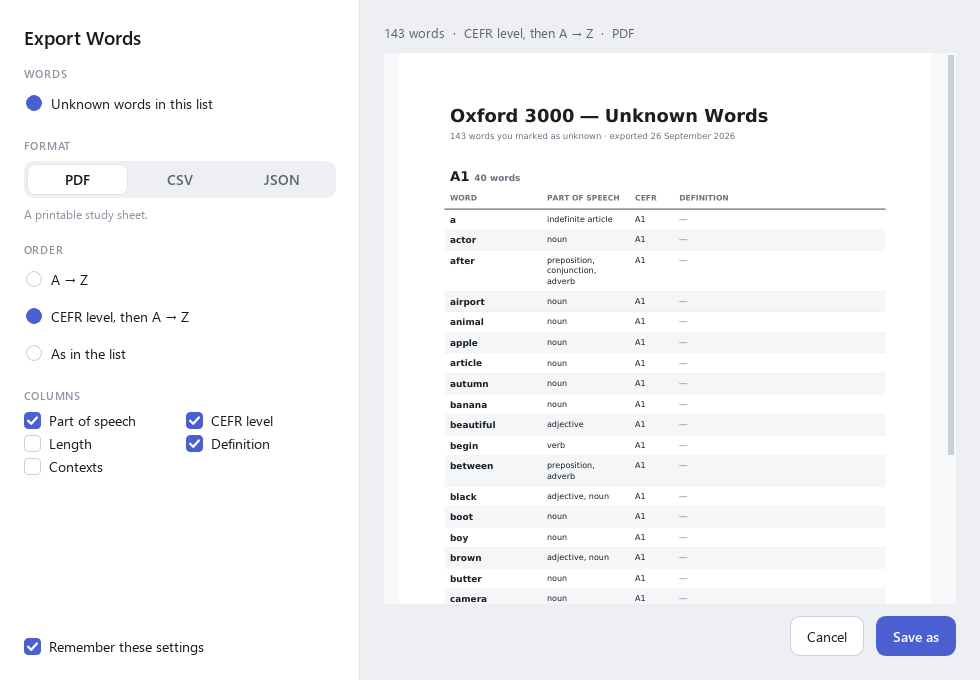
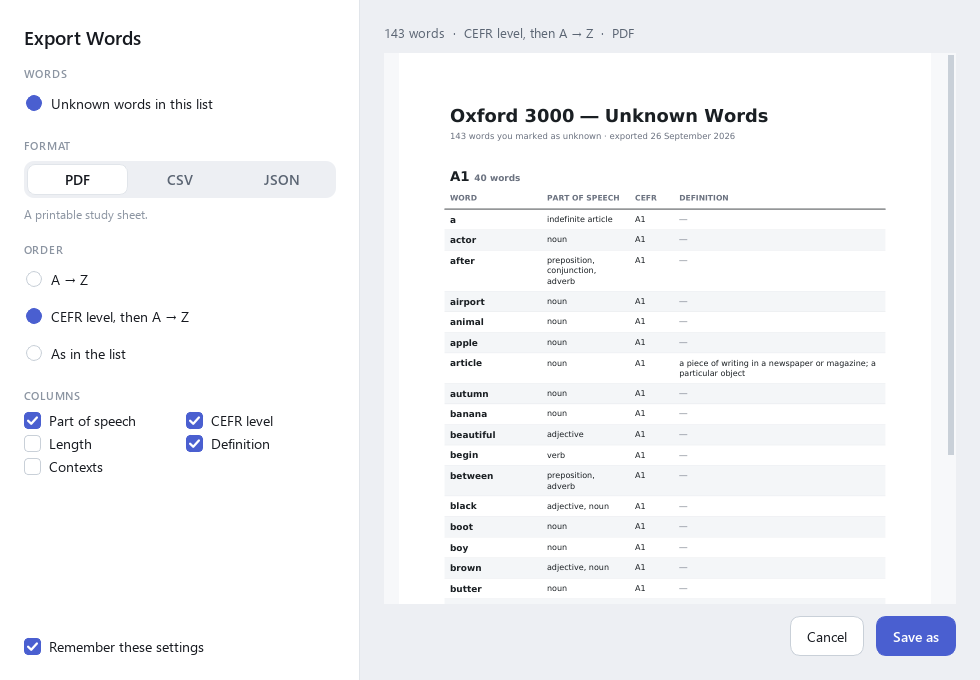
docs(screenshots): real definitions and contexts, from an optional file
tools/screenshots.py --content FILE imports a contexts file into the
temporary sample before capturing, so the cards show real definitions and
contexts instead of stand-ins. Without it nothing changes; the file is only
read, never copied.

diff --git a/tools/screenshots.py b/tools/screenshots.py
@@ -14,6 +14,12 @@ Progress page and a word's history show that week's real record.
 Usage::
 
     python tools/screenshots.py        # writes docs/screenshots/*.png
+    python tools/screenshots.py --content words.json
+
+``--content`` imports a contexts file (the format of docs/formats/contexts.md)
+into the sample first, so the cards show real definitions and contexts; the
+file only adds to the sample's words and is never copied anywhere. Without it,
+a word with no definition gets a stand-in.
 """
 
 from __future__ import annotations
@@ -42,6 +48,7 @@ from lexitrack.database.connection import Database  # noqa: E402
 from lexitrack.models.attempt import Effort, LearningAttempt, Phase, Role, Task  # noqa: E402
 from lexitrack.models.settings import Setting  # noqa: E402
 from lexitrack.models.srs import Rating  # noqa: E402
+from lexitrack.services.content_service import ContentService  # noqa: E402
 from lexitrack.services.learning_service import LearningService  # noqa: E402
 from lexitrack.services.vocabulary_service import VocabularyService  # noqa: E402
 from lexitrack.telegram.config import TelegramConfig  # noqa: E402
@@ -64,7 +71,8 @@ OUT = ROOT / "docs" / "screenshots"
 SIZE = (1180, 780)
 
 
-def main() -> int:
+def main(argv: list[str]) -> int:
+    content_file = Path(argv[argv.index("--content") + 1]) if "--content" in argv else None
     app = QApplication.instance() or QApplication(sys.argv[:1])
     app.setStyle("Fusion")
     app.setOrganizationName("LexiTrackScreenshots")
@@ -80,6 +88,10 @@ def main() -> int:
     # frozen week the Study screenshots run through; left in, every word's
     # history would show a stray "Marked Unknown by hand" in the middle.
     service.database.connection.execute("DELETE FROM word_status_events")
+    if content_file is not None:
+        content = ContentService(service.database)
+        result = content.apply_import(content.preview_import(content_file))
+        print(f"imported {result.contexts_added} contexts for {result.words} sample words")
     current = lists.get("Oxford 3000") or lists["German A1"]
 
     OUT.mkdir(parents=True, exist_ok=True)
@@ -295,4 +307,4 @@ def study_screens(app, window, engine, clock, list_id, theme, grab) -> None:
 
 
 if __name__ == "__main__":
-    raise SystemExit(main())
+    raise SystemExit(main(sys.argv[1:]))
